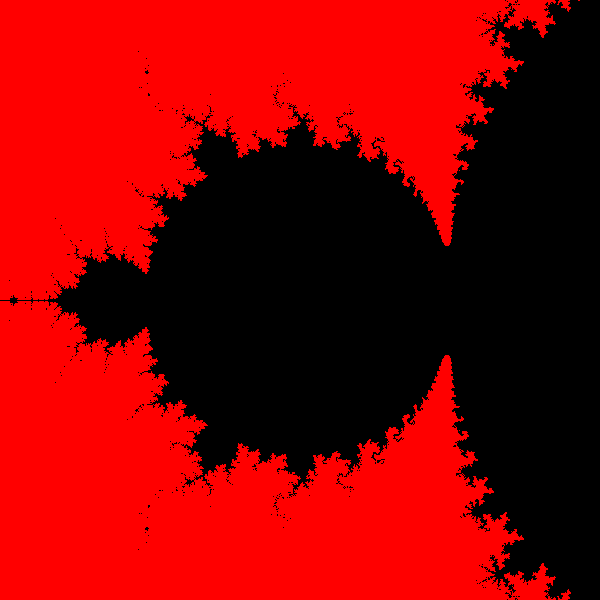
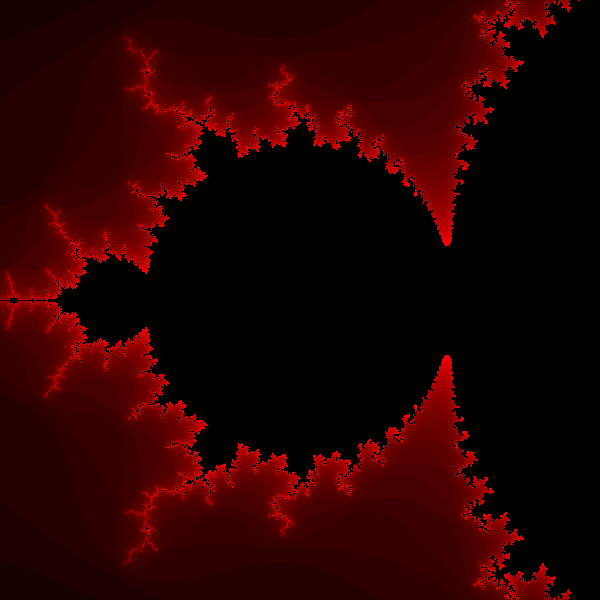
mandelbrot

diff --git a/examples/mandelbrot.rs b/examples/mandelbrot.rs
@@ -19,7 +19,7 @@ fn mandelbrot_red_black(x: u32, y: u32, width: u32, height: u32) -> RGB8 {
     }
 
     if nb_iter < 34 {
-        RGB8::from([255, 0, 0])
+        RGB8::from([(255 * nb_iter / 33) as u8, 0, 0])
     } else {
         RGB8::from([0, 0, 0])
     }
